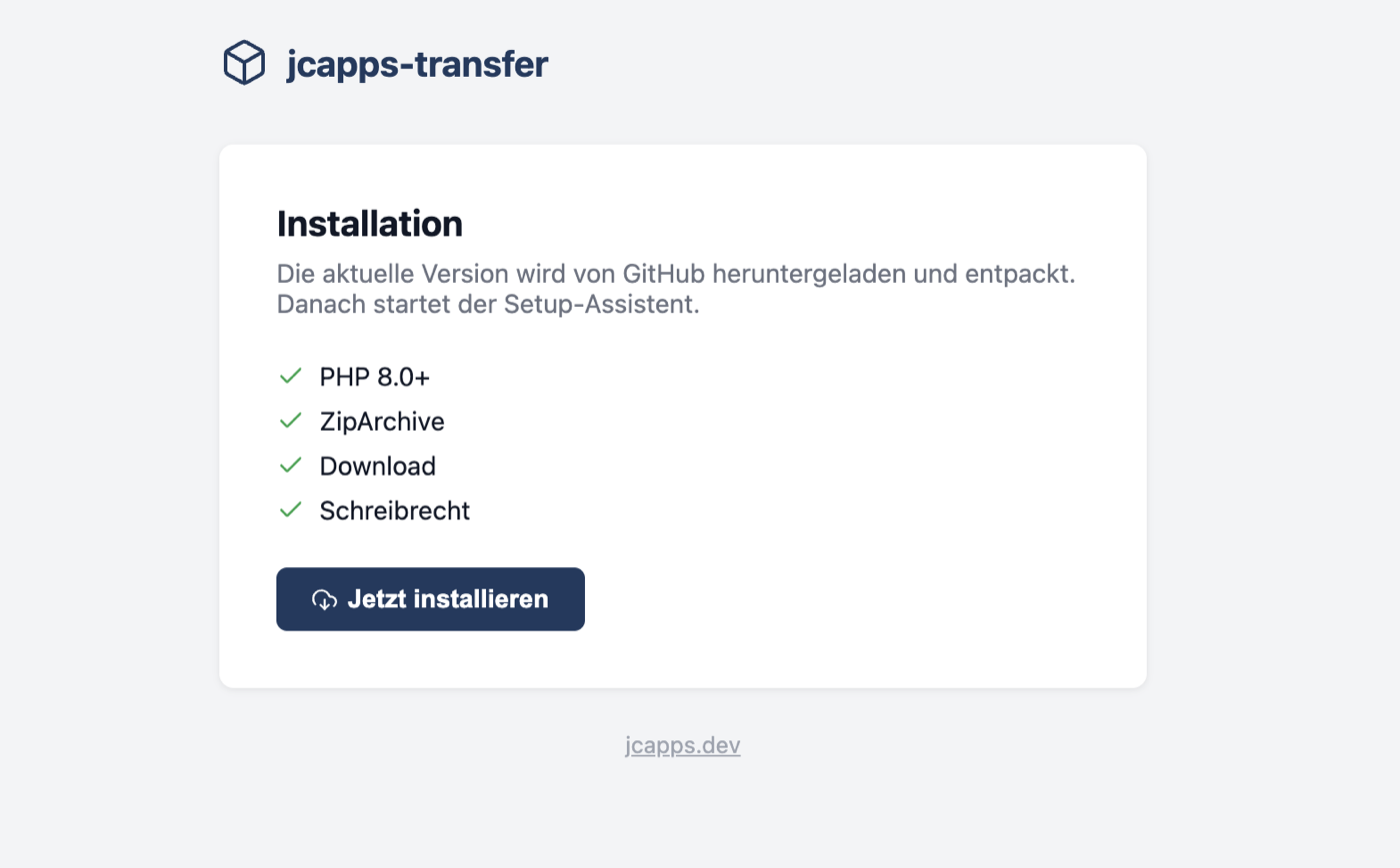
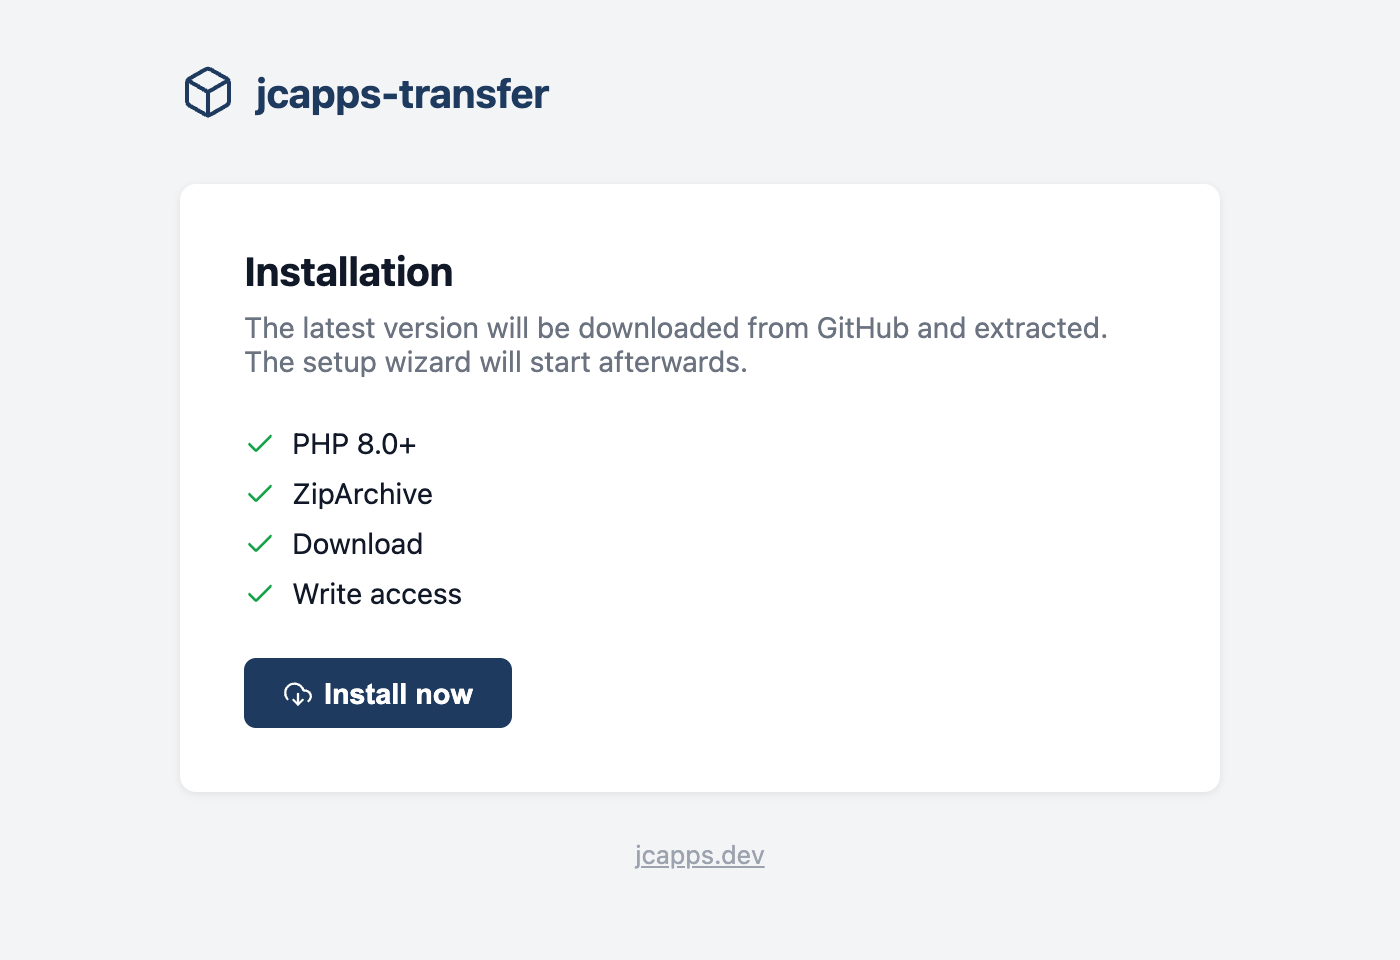
Transfer screenshots: English, current UI, storage and branding (#7)
* Transfer screenshots: English, current UI, storage and branding

- Replace all screenshots with English versions of v1.3.4 (redesigned download page, mobile-safe admin)
- Add new transfer, private storage and branding screens
- Update captions and transfer version to v1.3.4

* Bump transfer version to v1.3.5

---------

Changed region(s): [[0.1536, 0.2488, 0.7986, 0.7776], [0.1229, 0.0311, 0.3993, 0.1244], [0.43, 0.8399, 0.5529, 0.9021]]

diff --git a/screenshots.html b/screenshots.html
@@ -4,7 +4,7 @@
 <meta charset="UTF-8">
 <meta name="viewport" content="width=device-width, initial-scale=1.0">
 <title>Transfer — Screenshots · jcapps.dev</title>
-<meta name="description" content="Screenshots of jcapps-transfer — install, setup, admin dashboard, sharing and recipient download page.">
+<meta name="description" content="Screenshots of jcapps-transfer — install, setup, admin dashboard, new transfer, sharing, recipient download page, private storage and branding.">
 <link rel="canonical" href="https://jcapps.dev/screenshots">
 <link rel="icon" href="assets/favicon.svg" type="image/svg+xml">
 <link rel="icon" href="assets/favicon-32.png" type="image/png" sizes="32x32">
@@ -112,38 +112,56 @@
   </a>
 
   <h1 class="page-title">Transfer — Screenshots</h1>
-  <p class="page-sub">From install to first transfer. Five steps, five screens.</p>
+  <p class="page-sub">From install to the recipient’s download — and everything in between.</p>
 
   <div class="ss-grid">
 
     <div class="ss-item">
       <div class="ss-item-label">1 · Install</div>
-      <img src="assets/screenshots/transfer-install.png" alt="install.php — server requirements check">
+      <img src="assets/screenshots/transfer-install.png" alt="install.php — server requirements check" loading="lazy">
       <p class="ss-item-caption">Upload a single <code>install.php</code> to your webroot. It checks PHP version, ZipArchive, download capability and write permissions — then pulls the latest release directly from GitHub.</p>
     </div>
 
     <div class="ss-item">
       <div class="ss-item-label">2 · Setup</div>
-      <img src="assets/screenshots/transfer-setup.png" alt="Setup wizard">
+      <img src="assets/screenshots/transfer-setup.png" alt="Setup wizard — app name, admin password, URL and upload directory" loading="lazy">
       <p class="ss-item-caption">A minimal setup wizard: choose a name, set your admin password and confirm the app URL. The upload directory is auto-detected — outside the webroot when possible, inside when not.</p>
     </div>
 
     <div class="ss-item">
       <div class="ss-item-label">3 · Dashboard</div>
-      <img src="assets/screenshots/transfer-dashboard.png" alt="Admin dashboard — transfers overview">
-      <p class="ss-item-caption">The admin dashboard lists all transfers with file name, size, creation date, expiry, download count and status. Revoke access or delete a transfer with a single click.</p>
+      <img src="assets/screenshots/transfer-dashboard.png" alt="Admin dashboard — transfers overview with status and storage usage" loading="lazy">
+      <p class="ss-item-caption">Every transfer at a glance: files, size, creation date, expiry, downloads and status — plus storage usage for transfers and private storage. Copy the link, revoke access or delete with an inline confirmation.</p>
     </div>
 
     <div class="ss-item">
-      <div class="ss-item-label">4 · Share</div>
-      <img src="assets/screenshots/transfer-link.png" alt="Transfer created — download link">
-      <p class="ss-item-caption">After uploading, you get a secure download link with a 256-bit token. Copy it and send it — by email, chat, or any other channel. No account required for the recipient.</p>
+      <div class="ss-item-label">4 · New transfer</div>
+      <img src="assets/screenshots/transfer-upload.png" alt="New transfer — files, optional password, download limit and expiry" loading="lazy">
+      <p class="ss-item-caption">Drop up to 10 files — uploaded in chunks, so large transfers work even on shared hosting (1 GB by default, configurable). Optionally protect the link with a password, limit the number of downloads and pick an expiry — 1, 7, 14 or 30 days, or any value up to a year.</p>
     </div>
 
     <div class="ss-item">
-      <div class="ss-item-label">5 · Download</div>
-      <img src="assets/screenshots/transfer-download.png" alt="Recipient download page">
-      <p class="ss-item-caption">Recipients see a clean, minimal page with the file name, size and expiry date. One button to download — no login, no ads, no tracking.</p>
+      <div class="ss-item-label">5 · Share</div>
+      <img src="assets/screenshots/transfer-link.png" alt="Transfer created — short download link and one-time password display" loading="lazy">
+      <p class="ss-item-caption">You get a short link backed by a 256-bit token — send it by email, chat or any other channel. The password is shown once, so you can pass it on separately. No account required for the recipient.</p>
+    </div>
+
+    <div class="ss-item">
+      <div class="ss-item-label">6 · Download</div>
+      <img src="assets/screenshots/transfer-download.png" alt="Recipient download page with company logo, file list and legal links" loading="lazy">
+      <p class="ss-item-caption">Recipients see a calm page in your branding: your logo, every file with type and size, expiry and remaining downloads, and your legal notice and privacy links. Shown in German or English, based on the recipient’s browser. No login, no ads, no tracking.</p>
+    </div>
+
+    <div class="ss-item">
+      <div class="ss-item-label">7 · Storage</div>
+      <img src="assets/screenshots/transfer-storage.png" alt="Private storage — files kept for the admin, downloadable directly" loading="lazy">
+      <p class="ss-item-caption">A private storage area for yourself: upload files and download them directly — no link, no expiry. Handy for documents you need on the road.</p>
+    </div>
+
+    <div class="ss-item">
+      <div class="ss-item-label">8 · Branding</div>
+      <img src="assets/screenshots/transfer-settings.png" alt="Settings — app name, company name, footer, legal links and logo" loading="lazy">
+      <p class="ss-item-caption">Set your company name, footer text, legal notice and privacy policy URLs and upload your logo. Everything appears on the download and login pages — no code changes needed.</p>
     </div>
 
   </div>

diff --git a/index.html b/index.html
@@ -508,7 +508,7 @@
     <section class="section">
       <div class="tool-head">
         <h2 class="tool-name">Transfer</h2>
-        <span class="tool-version" id="transfer-version">v1.3.1</span>
+        <span class="tool-version" id="transfer-version">v1.3.5</span>
         <span class="tool-badge">Live</span>
       </div>
       <p class="tool-desc">
@@ -571,7 +571,7 @@
 
       <div class="tool-shot">
         <div class="tool-shot-label">After uploading</div>
-        <img src="assets/screenshots/transfer-link.png" alt="Transfer created — a secure download link with a 256-bit token, ready to copy and send">
+        <img src="assets/screenshots/transfer-link.png" alt="Transfer created — a short download link backed by a 256-bit token, ready to copy and send">
       </div>
 
       <div class="term">
